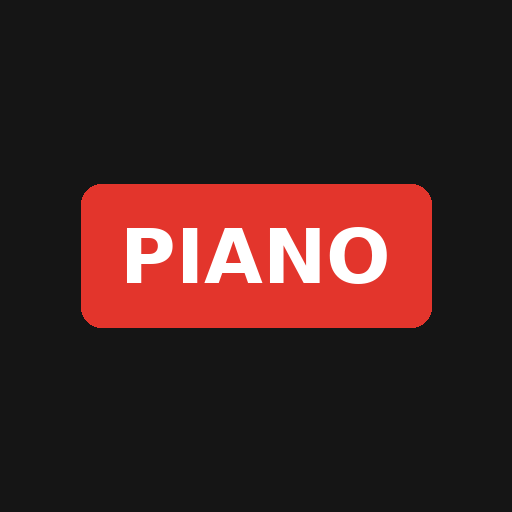
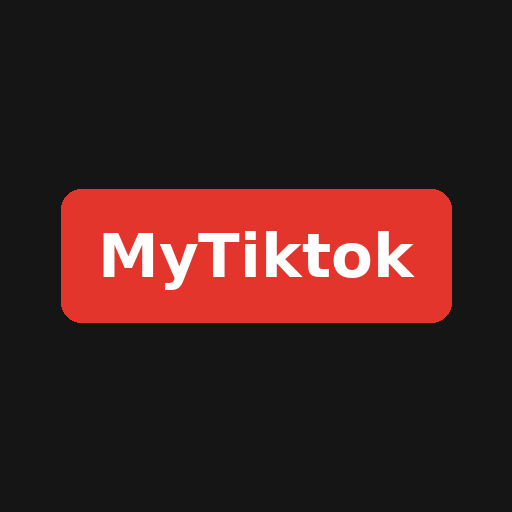
Rinomina l'app in MyTiktok (titolo, manifest e icone)
Claude-Session: https://claude.ai/code/session_01SKJdif4tW7SXnbLCDpQVkg

Changed region(s): [[0.1875, 0.4375, 0.8125, 0.5625], [0.0938, 0.3438, 0.8438, 0.6562], [0.8438, 0.375, 0.9062, 0.625]]

diff --git a/tiktok/index.html b/tiktok/index.html
@@ -4,14 +4,14 @@
 <meta charset="utf-8">
 <meta name="viewport" content="width=device-width, initial-scale=1, viewport-fit=cover">
 <meta name="apple-mobile-web-app-capable" content="yes">
-<meta name="apple-mobile-web-app-title" content="Piano TikTok">
+<meta name="apple-mobile-web-app-title" content="MyTiktok">
 <meta name="apple-mobile-web-app-status-bar-style" content="default">
 <meta name="robots" content="noindex,nofollow">
 <meta name="theme-color" content="#F2F1ED">
 <link rel="manifest" href="manifest.webmanifest">
 <link rel="apple-touch-icon" href="apple-touch-icon.png">
 <link rel="icon" type="image/png" href="icon-192.png">
-<title>Piano TikTok</title>
+<title>MyTiktok</title>
 <link rel="preconnect" href="https://fonts.googleapis.com">
 <link rel="preconnect" href="https://fonts.gstatic.com" crossorigin>
 <link href="https://fonts.googleapis.com/css2?family=Bricolage+Grotesque:opsz,wght@12..96,600;12..96,800&family=IBM+Plex+Mono:wght@500&family=IBM+Plex+Sans:wght@400;500;600&display=swap" rel="stylesheet">
@@ -121,7 +121,7 @@ textarea{resize:vertical;min-height:64px}
 <body>
 <div id="gate" class="hide">
   <form class="gbox" id="gForm">
-    <h1>Piano TikTok</h1>
+    <h1>MyTiktok</h1>
     <div class="msg">Accedi con lo stesso account di Tasky.</div>
     <label for="gE">Email<input id="gE" type="email" autocomplete="username" required></label>
     <label for="gP">Password<input id="gP" type="password" autocomplete="current-password" required></label>
@@ -131,7 +131,7 @@ textarea{resize:vertical;min-height:64px}
 </div>
 <div class="wrap hide" id="app">
   <header>
-    <h1>Piano TikTok</h1>
+    <h1>MyTiktok</h1>
     <div class="sub">
       <span>@francescozampaglione</span>
       <span class="times">Orari migliori <b>10:00</b><b>12:00</b><b>18:00</b></span>
